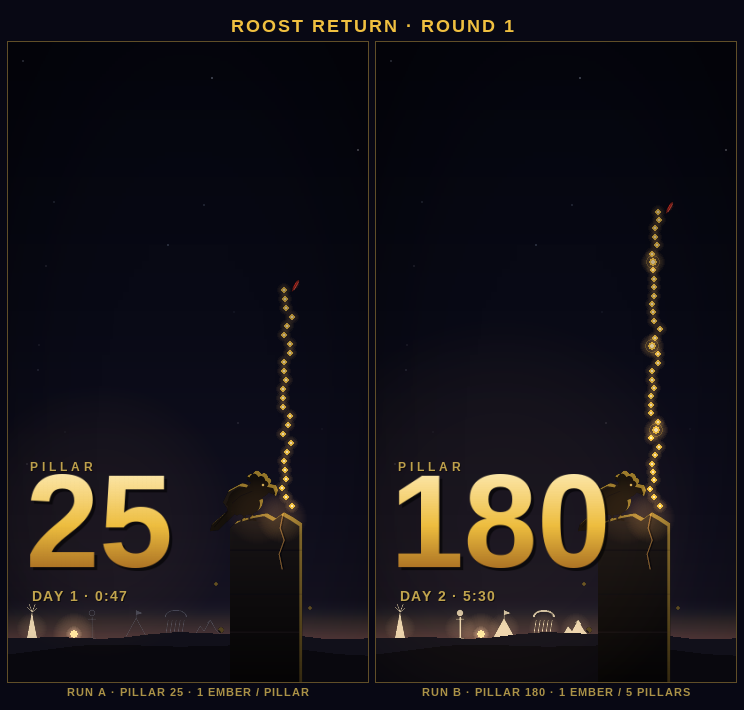
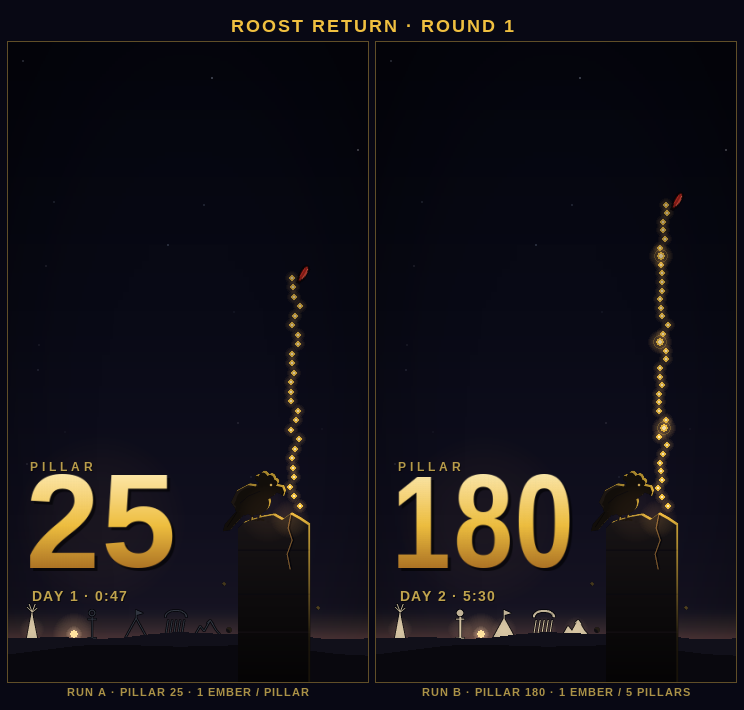
Flight Log roost_return — updated round 1 render

diff --git a/tools/render_flight_log_roost_return.py b/tools/render_flight_log_roost_return.py
@@ -73,11 +73,11 @@ FAR_RIDGE_Y = 594
 NEAR_RIDGE_Y = 608
 LANDMARK_BASE = 596
 
-PILLAR_X0, PILLAR_X1 = 222, 294
+PILLAR_X0, PILLAR_X1 = 230, 302
 PILLAR_TOP = 470
 
-BIRD_FX, BIRD_FY = 240, 476            # the foot the silhouette is built around
-COL_X = 280
+BIRD_FX, BIRD_FY = 248, 476            # the foot the silhouette is built around
+COL_X = 288
 COL_BASE_Y = 464
 
 LANDMARK_X = [24, 84, 128, 168, 200]
@@ -86,6 +86,7 @@ STAT_LEFT = 22
 LABEL_Y = 418
 NUM_TOP = 432
 NUM_CAP = 94                           # hero numeral cap height (brief: >= 90)
+NUM_MAX_W = 172                        # keeps a 3-figure score clear of the perch
 SUB_Y = 546
 
 _fonts: dict = {}
@@ -174,16 +175,19 @@ def add_glow(dst, cx, cy, radius, color, peak, falloff=2.0):
              special_flags=pygame.BLEND_ADD)
 
 
-def radial_mask(size, center, radius, inner=255, outer=48, gamma=1.4):
-    """Small white surface with a radial alpha ramp, meant to be scaled up and
-    multiplied into another layer — building it at target resolution in Python
-    is an order of magnitude slower for no visible gain."""
-    m = pygame.Surface(size, pygame.SRCALPHA)
-    w, h = size
-    for y in range(h):
-        for x in range(w):
-            d = math.hypot(x - center[0], y - center[1]) / radius
-            t = min(1.0, d) ** gamma
+def falloff_mask(center, radius, inner=255, outer=40, gamma=1.3, cell=8):
+    """Canvas-sized radial alpha ramp, built at 1/cell scale then stretched.
+
+    The low-res grid keeps the canvas aspect exactly, so the ramp stays
+    circular after the stretch — a square scratch surface would smear it into
+    an ellipse and put the brightest rim light nowhere near the light source.
+    """
+    gw, gh = W // cell, H // cell
+    m = pygame.Surface((gw, gh), pygame.SRCALPHA)
+    cx, cy, rr = center[0] / cell, center[1] / cell, radius / cell
+    for y in range(gh):
+        for x in range(gw):
+            t = min(1.0, math.hypot(x - cx, y - cy) / rr) ** gamma
             m.set_at((x, y), (255, 255, 255, int(lerp(inner, outer, t))))
     return m
 
@@ -238,7 +242,9 @@ def draw_horizon_band(surf, sun_phase):
     for y in range(band_h):
         t = y / (band_h - 1)
         c = lerp_multi(DAWN_STOPS, t)
-        band.fill((*c, int(90 * t ** 1.5)), pygame.Rect(0, y, W, 1))
+        # Weighted hard toward the ridge: the landmarks stand in the upper two
+        # thirds of the strip and need darker sky behind them to read.
+        band.fill((*c, int(88 * t ** 2.1)), pygame.Rect(0, y, W, 1))
     surf.blit(band, (0, BAND_TOP))
 
     sun_x = int(sun_phase * W)
@@ -325,16 +331,28 @@ LANDMARKS = [lm_geyser, lm_lamp, lm_clown, lm_rain, lm_snow]
 
 
 def draw_landmarks(surf, reached):
-    ov = pygame.Surface((W * SS, H * SS), pygame.SRCALPHA)
+    glyphs = pygame.Surface((W * SS, H * SS), pygame.SRCALPHA)
     for fn, cx, ok in zip(LANDMARKS, LANDMARK_X, reached):
-        col = (246, 228, 190, 204) if ok else (156, 168, 192, 77)
-        fn(ov, cx, LANDMARK_BASE, col, ok)
+        col = (246, 228, 190, 204) if ok else (162, 176, 200, 77)
+        fn(glyphs, cx, LANDMARK_BASE, col, ok)
+
+    # Both states sit on the dawn strip, and a 1px unreached outline at 30%
+    # dissolves into it without a keyline behind. Dilating the glyph mask keeps
+    # the halo exactly on the shape, including the rain hatch.
+    ink = pygame.mask.from_surface(glyphs, threshold=10).to_surface(
+        setcolor=(4, 5, 10, 185), unsetcolor=(0, 0, 0, 0))
+    ov = pygame.Surface((W * SS, H * SS), pygame.SRCALPHA)
+    for dx in (-2, 0, 2):
+        for dy in (-2, 0, 2):
+            ov.blit(ink, (dx, dy))
+    ov.blit(glyphs, (0, 0))
     surf.blit(pygame.transform.smoothscale(ov, (W, H)), (0, 0))
+
     # A reached landmark is a place she stood in; the faint warm lift under it
     # is what separates "visited" from "merely drawn brighter".
     for cx, ok in zip(LANDMARK_X, reached):
         if ok:
-            add_glow(surf, cx, LANDMARK_BASE - 10, 16, (255, 206, 140), 26, 2.4)
+            add_glow(surf, cx, LANDMARK_BASE - 9, 13, (255, 206, 140), 22, 2.4)
 
 
 # ── perch ────────────────────────────────────────────────────────────────────
@@ -381,16 +399,16 @@ def build_pillar(ov):
                          (PILLAR_X1 * SS, sy * SS), SS)
 
     # The crack the light comes out of.
-    crack = [(276, 471), (273, 486), (277, 498), (272, 512), (275, 527)]
+    crack = [(284, 471), (281, 486), (285, 498), (280, 512), (283, 527)]
     pygame.draw.lines(ov, (8, 7, 10, 230),
                       False, [(p[0] * SS, p[1] * SS) for p in crack], 2 * SS)
     pygame.draw.lines(ov, (196, 138, 58, 150),
                       False, [((p[0] - 1) * SS, p[1] * SS) for p in crack], SS)
 
     # Chipped rubble on the cap and a couple of fallen chips below the lip.
-    for cx, cy, r in ((232, 486, 3), (252, 480, 2), (288, 492, 2)):
+    for cx, cy, r in ((240, 486, 3), (260, 480, 2), (296, 492, 2)):
         pygame.draw.circle(ov, (24, 20, 22, 255), (cx * SS, cy * SS), r * SS)
-    for cx, cy, r in ((208, 542, 2), (302, 566, 2), (213, 588, 3)):
+    for cx, cy, r in ((216, 542, 2), (310, 566, 2), (221, 588, 3)):
         pygame.draw.circle(ov, (18, 16, 20, 255), (cx * SS, cy * SS), r * SS)
 
 
@@ -411,10 +429,10 @@ def build_bird(ov):
 
     # Tail — the long diagonal that stops the silhouette reading as an egg.
     pygame.draw.polygon(ov, (*SILHOUETTE, 255),
-                        P([(-11, -19), (-3, -14), (-30, 12), (-38, 13),
-                           (-36, 6), (-16, -11)]))
+                        P([(-11, -19), (-3, -14), (-26, 12), (-33, 13),
+                           (-31, 6), (-16, -11)]))
     pygame.draw.line(ov, (10, 8, 8, 255), P([(-14, -14)])[0],
-                     P([(-34, 9)])[0], SS)
+                     P([(-29, 9)])[0], SS)
 
     # Far wing, one value step up.
     pygame.draw.polygon(ov, (*FAR_WING, 255),
@@ -470,18 +488,21 @@ def draw_perch(surf):
     build_bird(ov)
 
     # Rim light comes off the ember column, up and to the right of the perch,
-    # so the crescent sits on the head, breast and the pillar's right arris.
-    rim = rim_light(ov, -3 * SS, 3 * SS, GOLD, 255)
-    ramp = radial_mask((36, 36), (26, 8), 30, inner=255, outer=26, gamma=1.25)
+    # so the crescent sits on the head, breast and the pillar's right arris,
+    # then dies out down the shaft and along the tail.
+    rim = rim_light(ov, -2 * SS, 2 * SS, GOLD, 240)
+    ramp = falloff_mask((COL_X, COL_BASE_Y - 8), 132, inner=255, outer=22,
+                        gamma=1.15)
     rim.blit(pygame.transform.smoothscale(ramp, rim.get_size()), (0, 0),
              special_flags=pygame.BLEND_RGBA_MULT)
     ov.blit(rim, (0, 0))
 
     surf.blit(pygame.transform.smoothscale(ov, (W, H)), (0, 0))
     # Light leaking out of the crack, laid after the stone so it reads as
-    # escaping rather than painted on.
-    add_glow(surf, 274, 476, 26, (255, 178, 84), 40, 2.3)
-    add_glow(surf, 250, 470, 34, (255, 168, 92), 20, 2.6)
+    # escaping rather than painted on. Kept low: the stone has to stay a dark
+    # mass, or the bird loses the ground it is silhouetted against.
+    add_glow(surf, 282, 477, 20, (255, 178, 84), 30, 2.3)
+    add_glow(surf, 260, 472, 30, (255, 168, 92), 13, 2.6)
 
 
 # ── ember column ─────────────────────────────────────────────────────────────
@@ -518,39 +539,75 @@ def draw_embers(surf, positions, anchor_every=None):
 
 def draw_feather(surf, x, y):
     """The death marker. Elongated, canted off vertical so it reads as falling,
-    and the only scarlet anywhere in the frame."""
-    fw, fh = 4, 14
-    s = pygame.Surface((fw * SS + 4, fh * SS + 4), pygame.SRCALPHA)
-    cxs = (fw * SS + 4) / 2.0
+    and the only scarlet anywhere in the frame.
+
+    It lands inside the ember glow, so it carries its own dark keyline —
+    without one a 5px-wide scarlet shape is eaten by the warm bloom behind it.
+    """
+    fw, fh = 5, 16
+    pad = 3
+    s = pygame.Surface((fw * SS + pad * 2, fh * SS + pad * 2), pygame.SRCALPHA)
+    cxs = s.get_width() / 2.0
     left, right = [], []
-    steps = 24
+    steps = 26
     for i in range(steps + 1):
         t = i / steps
-        yy = 2 + t * fh * SS
-        half = (fw * SS / 2.0) * (math.sin(math.pi * t) ** 0.7) * (1.0 - 0.45 * t)
+        yy = pad + t * fh * SS
+        half = (fw * SS / 2.0) * (math.sin(math.pi * t) ** 0.66) * (1.0 - 0.42 * t)
         left.append((cxs - half, yy))
         right.append((cxs + half, yy))
     pygame.draw.polygon(s, (*SCARLET, 255), left + right[::-1])
-    pygame.draw.line(s, (*SCARLET_DEEP, 230), (cxs, 4), (cxs, fh * SS), SS)
-    pygame.draw.lines(s, (*SCARLET_LIT, 220), False, right[2:-4], SS)
-    small = pygame.transform.smoothscale(s, (max(1, s.get_width() // SS),
-                                             max(1, s.get_height() // SS)))
-    rot = pygame.transform.rotozoom(small, -30, 1.0)
+    pygame.draw.line(s, (*SCARLET_DEEP, 235), (cxs, pad + 4), (cxs, pad + fh * SS), SS)
+    pygame.draw.lines(s, (*SCARLET_LIT, 235), False, right[3:-5], SS)
+
+    small = pygame.transform.smoothscale(s, (fw + pad, fh + pad))
+    keyed = pygame.Surface((small.get_width() + 2, small.get_height() + 2),
+                           pygame.SRCALPHA)
+    ink = pygame.mask.from_surface(small, threshold=20).to_surface(
+        setcolor=(10, 4, 6, 200), unsetcolor=(0, 0, 0, 0))
+    for dx in (0, 1, 2):
+        for dy in (0, 1, 2):
+            keyed.blit(ink, (dx, dy))
+    keyed.blit(small, (1, 1))
+    rot = pygame.transform.rotozoom(keyed, -30, 1.0)
     surf.blit(rot, (int(x) - rot.get_width() // 2, int(y) - rot.get_height() // 2))
 
 
 # ── stat block ───────────────────────────────────────────────────────────────
 
 def hero_numeral(value):
-    """Gold-gradient numeral, cropped to its own ink so the cap height is exact
-    — font metrics leave enough leading to throw the block off by 20px."""
-    img = font(150).render(str(value), True, (255, 255, 255))
-    box = img.get_bounding_rect()
-    glyph = pygame.Surface(box.size, pygame.SRCALPHA)
-    glyph.blit(img, (-box.x, -box.y))
-    scale = NUM_CAP / box.h
-    glyph = pygame.transform.smoothscale(
-        glyph, (max(1, int(box.w * scale)), NUM_CAP))
+    """Gold-gradient numeral set digit-by-digit on its own ink boxes.
+
+    Two reasons not to render the string whole: font metrics leave enough
+    leading to throw the block off by 20px, and the default sidebearings make a
+    three-digit score wide enough to collide with the perch. Setting the ink
+    boxes with one fixed optical gap keeps the cap height at spec while a
+    "180" still clears the pillar.
+    """
+    f = font(150)
+    digits = []
+    for ch in str(value):
+        img = f.render(ch, True, (255, 255, 255))
+        box = img.get_bounding_rect()
+        g = pygame.Surface(box.size, pygame.SRCALPHA)
+        g.blit(img, (-box.x, -box.y))
+        digits.append(g)
+    src_cap = max(g.get_height() for g in digits)
+    scale = NUM_CAP / src_cap
+    gap = max(2, int(NUM_CAP * 0.11))
+    scaled = [pygame.transform.smoothscale(
+        g, (max(1, int(g.get_width() * scale)), max(1, int(g.get_height() * scale))))
+        for g in digits]
+    total = sum(g.get_width() for g in scaled) + gap * (len(scaled) - 1)
+    glyph = pygame.Surface((total, NUM_CAP), pygame.SRCALPHA)
+    x = 0
+    for g in scaled:
+        glyph.blit(g, (x, NUM_CAP - g.get_height()))
+        x += g.get_width() + gap
+    if total > NUM_MAX_W:
+        # Condense rather than shrink: the cap height is the spec, and a
+        # four-figure score must still clear the perch on the right.
+        glyph = pygame.transform.smoothscale(glyph, (NUM_MAX_W, NUM_CAP))
 
     grad = pygame.Surface(glyph.get_size(), pygame.SRCALPHA)
     gw, gh = grad.get_size()
@@ -567,10 +624,11 @@ def draw_stats(surf, pillar, sub):
     text(surf, "PILLAR", 12, GOLD_DIM, topleft=(STAT_LEFT, LABEL_Y), track=4,
          alpha=210, shadow=(0, 0, 0, 120))
     num = hero_numeral(pillar)
-    # A wide, weak bloom behind the numeral ties it to the ember light instead
-    # of leaving it as UI pasted on a night sky.
+    # A weak bloom ties the numeral to the ember light instead of leaving it as
+    # UI pasted on a night sky. Radius is capped rather than tracking the digit
+    # count, or a three-digit score washes warm light across the whole horizon.
     add_glow(surf, STAT_LEFT + num.get_width() // 2, NUM_TOP + NUM_CAP // 2,
-             max(num.get_width(), NUM_CAP), (120, 84, 30), 26, 2.6)
+             88, (120, 84, 30), 22, 2.6)
     sh = num.copy()
     sh.fill((0, 0, 0, 255), special_flags=pygame.BLEND_RGBA_MULT)
     sh.set_alpha(150)
@@ -600,10 +658,10 @@ def render_run(run):
     return surf
 
 
-RUN_A = dict(pillar=25, sub="DAY 1 · 0:47", phase=0.184, embers=25, spacing=9.0,
+RUN_A = dict(pillar=25, sub="DAY 1 · 0:47", phase=0.184, embers=25, spacing=9.5,
              reached=[True, False, False, False, False],
              caption="RUN A · PILLAR 25 · 1 EMBER / PILLAR")
-RUN_B = dict(pillar=180, sub="DAY 2 · 5:30", phase=0.292, embers=36, spacing=8.4,
+RUN_B = dict(pillar=180, sub="DAY 2 · 5:30", phase=0.292, embers=36, spacing=8.6,
              reached=[True, True, True, True, True], anchor_every=10,
              caption="RUN B · PILLAR 180 · 1 EMBER / 5 PILLARS")
 
